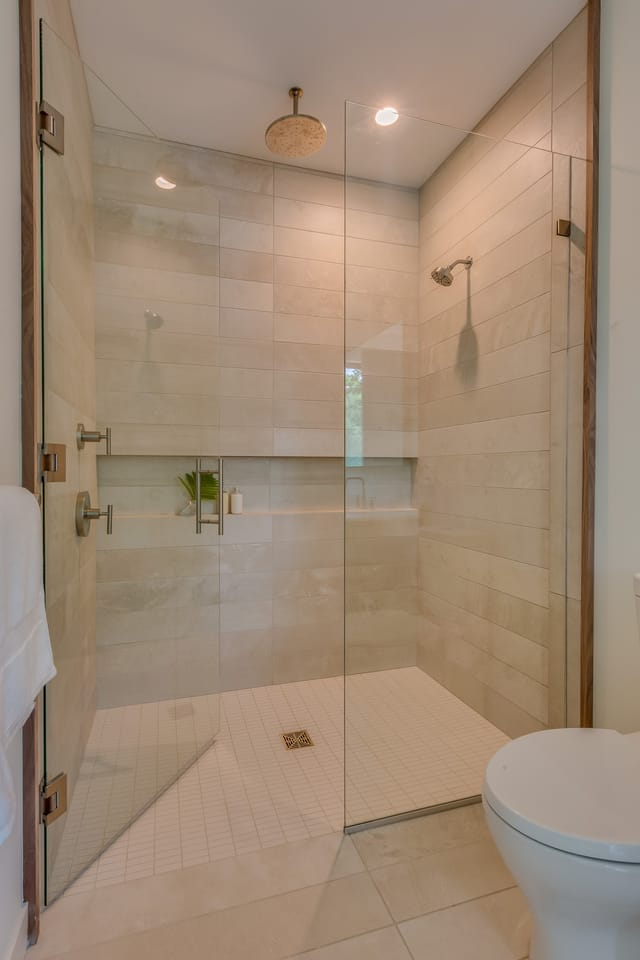
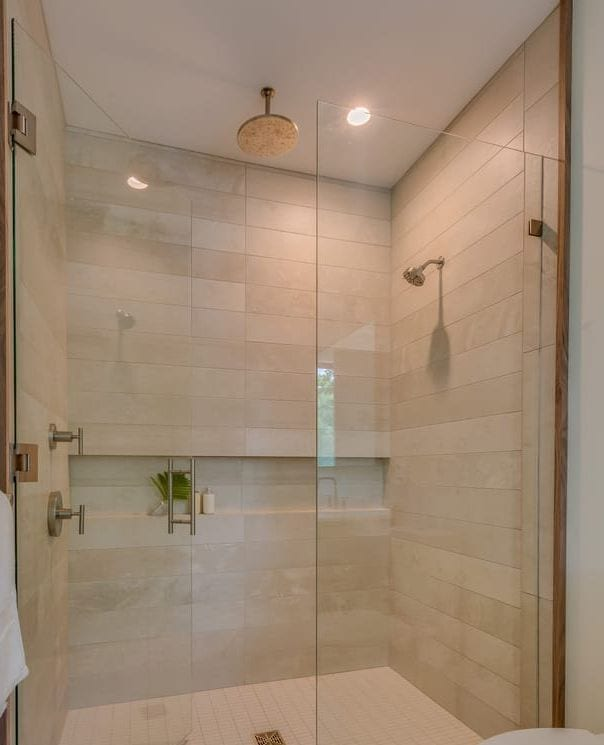
Final CTA: larger portrait photo cropped to the shower

diff --git a/src/components/sections/FinalCTA.tsx b/src/components/sections/FinalCTA.tsx
@@ -25,11 +25,11 @@ export default function FinalCTA() {
             </Link>
           </div>
         </div>
-        <div className="finalcta-photo" style={{ flexShrink: 0, width: 340, maxWidth: "100%" }}>
+        <div className="finalcta-photo" style={{ flexShrink: 0, width: 400, maxWidth: "100%" }}>
           <img
             src="/photos/curbless-walk-in-shower-sacramento.jpg"
             alt="Completed curbless walk-in shower with frameless glass panel and large-format tile"
-            style={{ height: 280, width: "100%", objectFit: "cover", objectPosition: "center 55%", borderRadius: 14, display: "block" }}
+            style={{ height: 470, width: "100%", objectFit: "cover", objectPosition: "center 30%", borderRadius: 14, display: "block" }}
           />
           <div style={{ marginTop: 16, display: "flex", alignItems: "center", gap: 10, fontSize: 13, color: "var(--color-stone-300)" }}>
             <span style={{ color: "var(--color-gold-300)" }}><PhoneIcon /></span>
